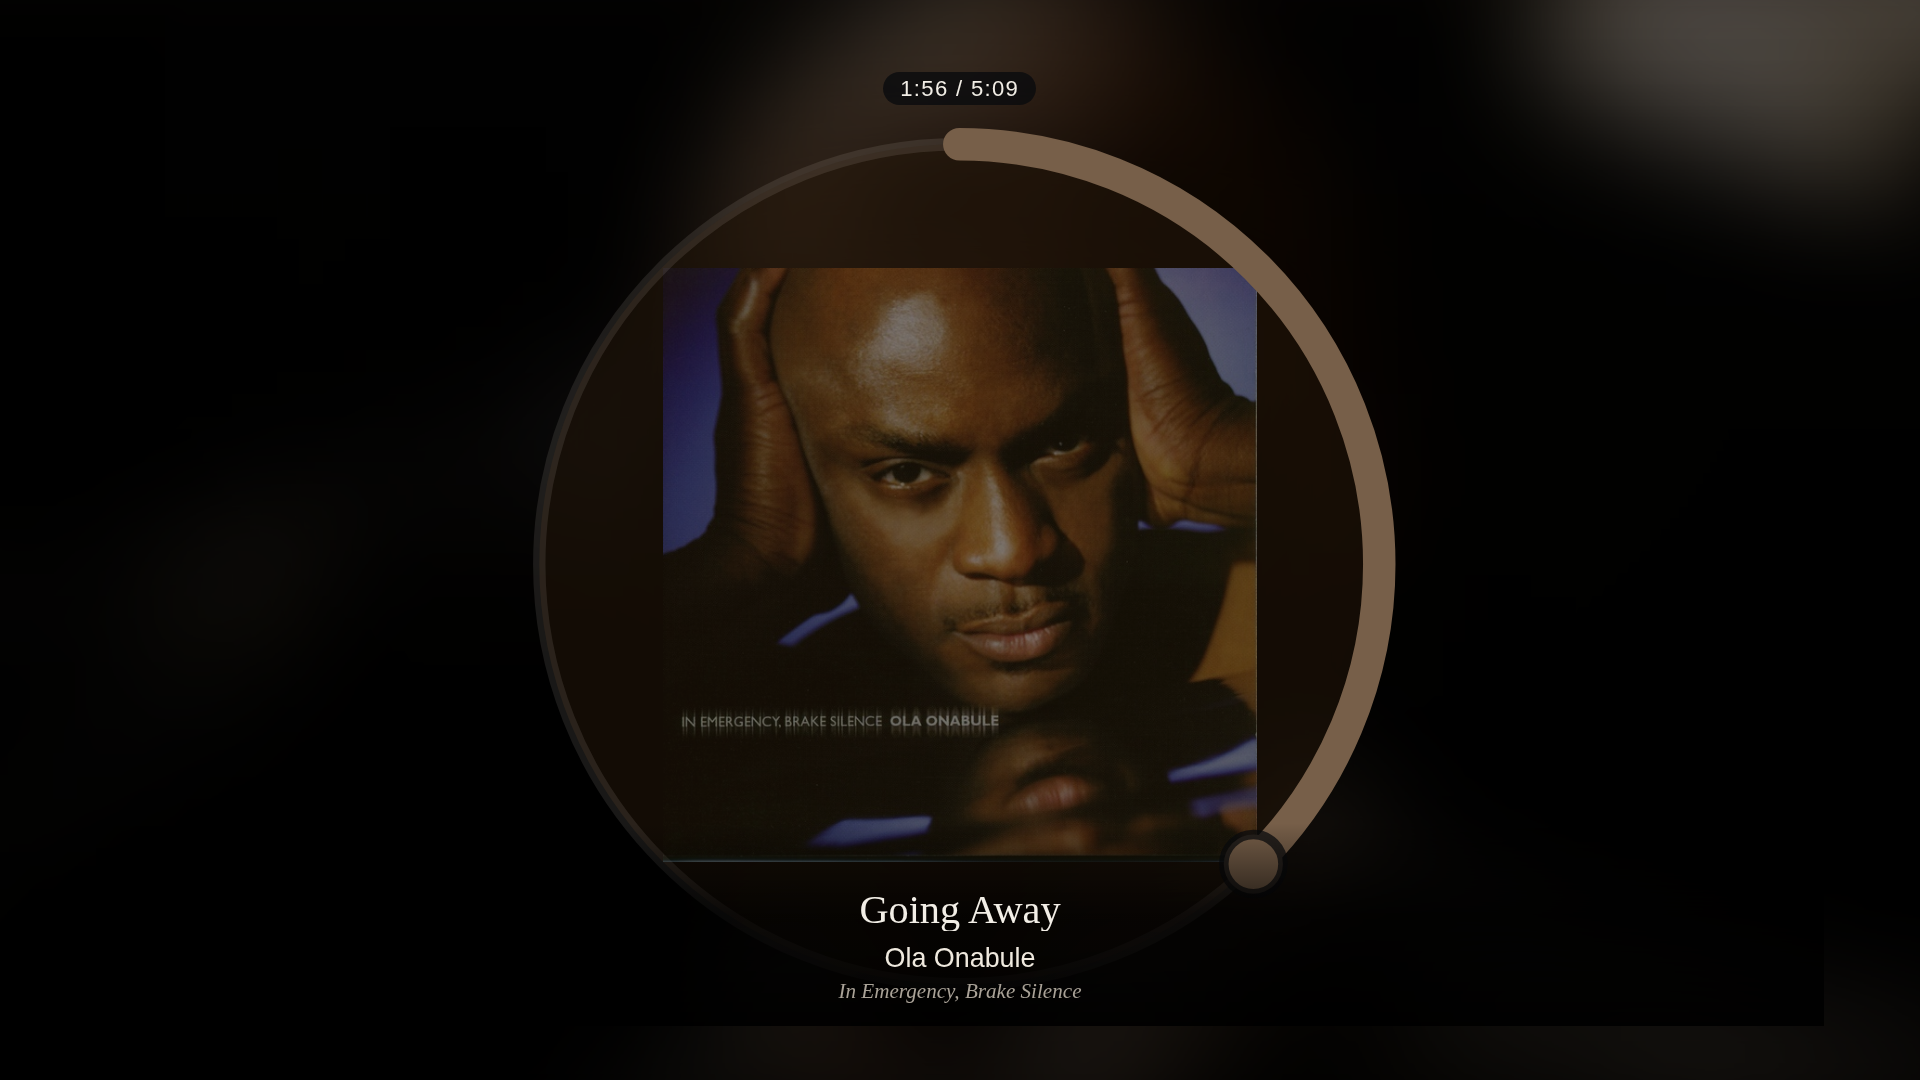
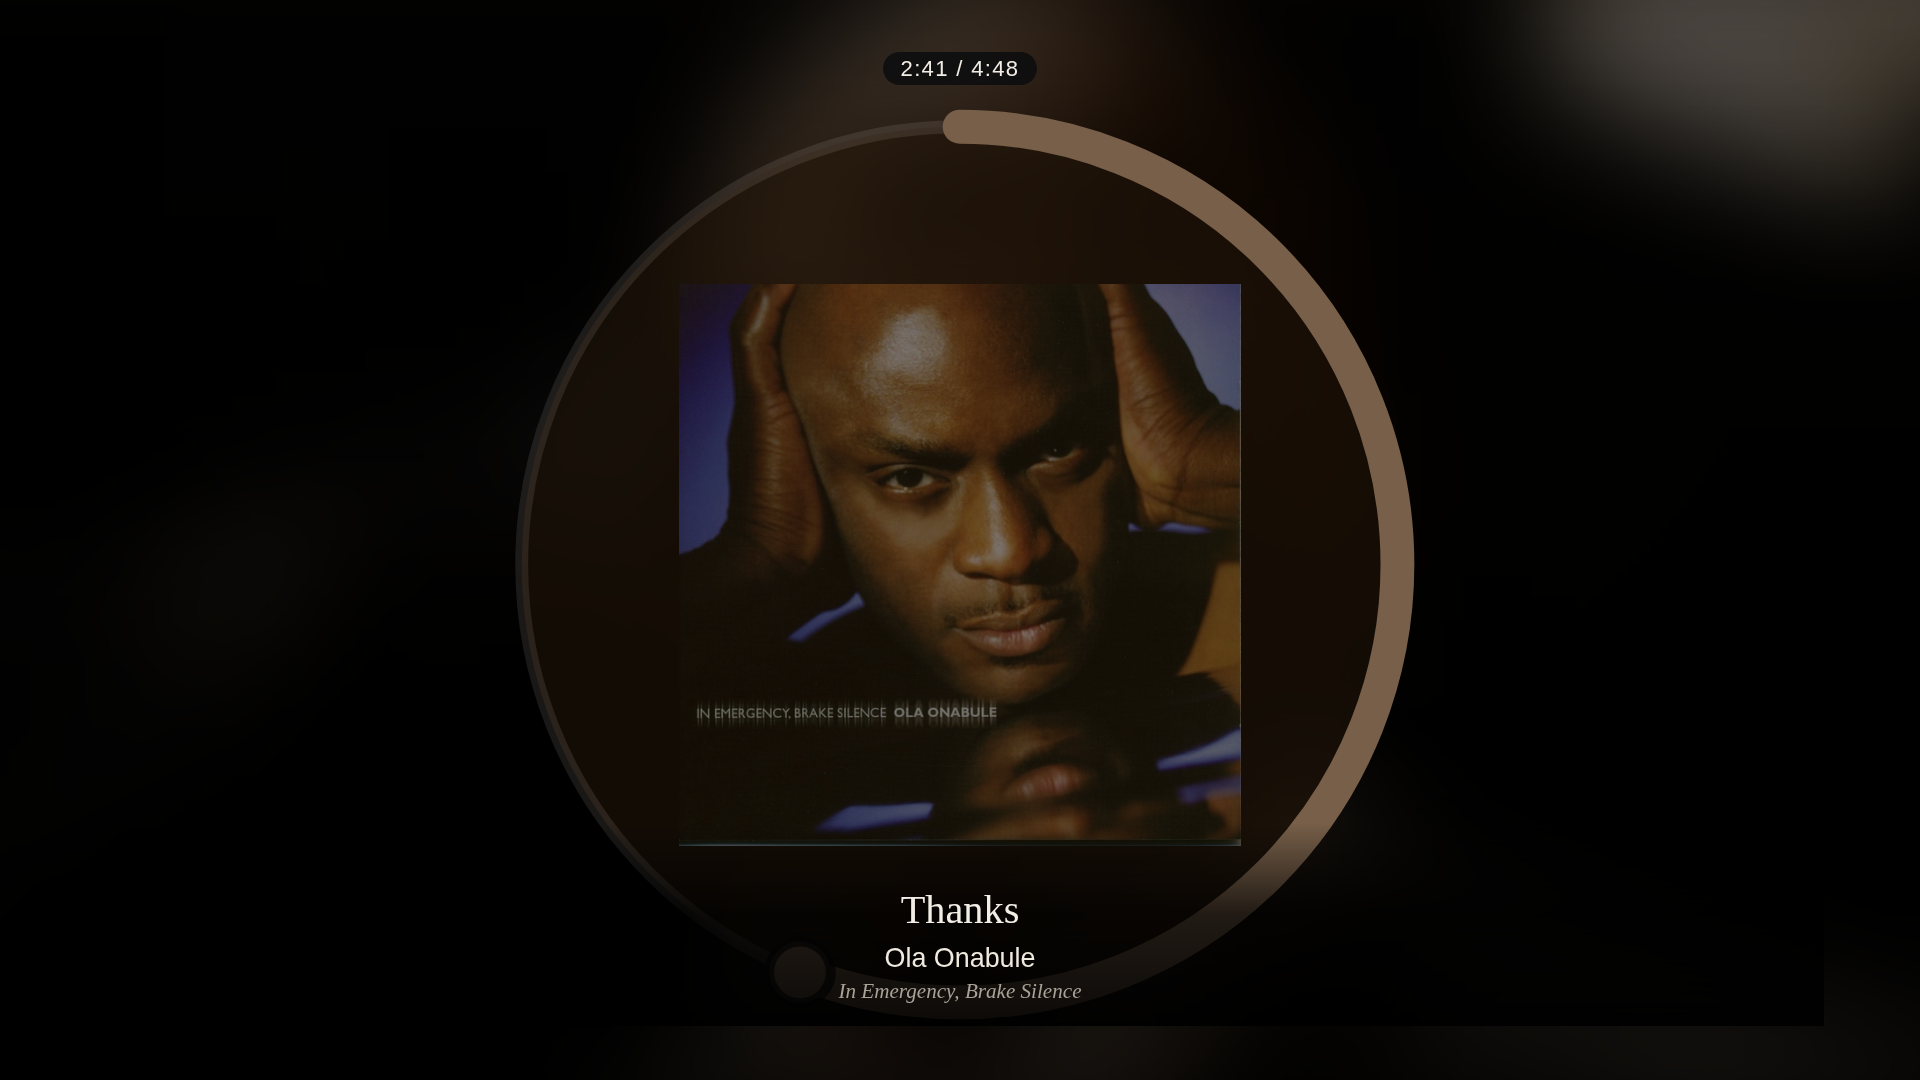
fix(face): the Dial's ring clears the corners with air, rather than touching them
Peter, 08-26: "make the circle a little bigger than the album art so the progress
doesn't cross the corner at all and leaves a little space."

Three things decide the number, and I had missed two of them in turn — first that
the SVG circle fills only 88% of its own box, and now that the STROKE straddles
that line, so what can touch a corner is its INNER edge at r=42.3, not the circle's
nominal radius.

  box = √2 × 1.06 ÷ 0.846 = 177.2% of the sleeve, offset −38.6%

Measured: 21px of clear air at each corner, ring outer edge 789 of 1080. The sleeve
comes to 52vh so the larger ring still sits inside the frame.

diff --git a/assets/face.css b/assets/face.css
@@ -350,13 +350,15 @@ body { font-family: "Helvetica Neue", Arial, sans-serif; color: #f2eee6; -webkit
 .dialbox { display: none; }
 .face[data-face="dial"] .dialbox {
   display: block; position: absolute;
-  /* The circle must pass THROUGH the four corners, and the arithmetic has two
-     steps, not one. The SVG's circle is r=44 in a 100 viewBox, so it fills only 88%
-     of its own box — sizing that box to 141% of the sleeve gave a circle of 124%,
-     smaller than the diagonal, and the corners stuck out.
-       box = √2 ÷ 0.88 = 160.7% of the sleeve, offset −30.4% each side
-     which puts the circle's diameter exactly on the diagonal. */
-  left: -30.4%; top: -30.4%; width: 160.7%; height: 160.7%;
+  /* The ring CLEARS the four corners with a little air, rather than passing through
+     them (Peter, 08-26). Three things decide the number, and I had missed two of
+     them in turn:
+       · the SVG circle is r=44 in a 100 viewBox, so it fills 88% of its own box;
+       · the STROKE straddles that line, so what can touch a corner is its INNER
+         edge at r=42.3, which is 84.6% of the box;
+       · the corner sits on the diagonal, at √2 of the sleeve's side.
+     box = √2 × 1.06 ÷ 0.846 = 177.2%, offset −38.6% — a 6% gap at the corners. */
+  left: -38.6%; top: -38.6%; width: 177.2%; height: 177.2%;
   pointer-events: none;
 }
 .face[data-face="dial"] .dial { width: 100%; height: 100%; display: block; }
@@ -373,8 +375,9 @@ body { font-family: "Helvetica Neue", Arial, sans-serif; color: #f2eee6; -webkit
 /* The ring reaches top and bottom of the frame: 62vh inscribed puts it at ~88vh,
    which is the safe area. The copy then overlays the lower arc on its own grade,
    rather than being pushed off the bottom. */
-.face[data-face="dial"] .cover { width: 55vh; height: 55vh; }
-.face.show-chrome[data-face="dial"] .cover { width: 40vh; height: 40vh; }
+/* ring outer diameter is 162% of the sleeve, so 52vh gives 84vh — inside the frame */
+.face[data-face="dial"] .cover { width: 52vh; height: 52vh; }
+.face.show-chrome[data-face="dial"] .cover { width: 38vh; height: 38vh; }
 
 
 /* The reading sits under the ring, not inside it — the middle is the picture. */
